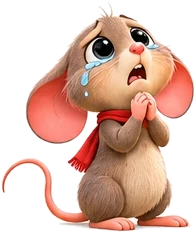
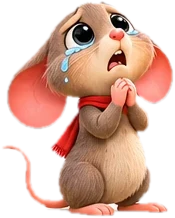
Tiger story: blend characters into scenes, remove on-screen text
Cleaner cut-outs without white fringes or grey floor patches, soft ground
shadows, night colour tone for the trap scenes, and a small tap/next button
instead of the caption box (narration still reads each scene aloud).

Claude-Session: https://claude.ai/code/session_01QxZEKQa9Tg76vW2p6EfgqB

diff --git a/index.html b/index.html
@@ -101,7 +101,17 @@
   @keyframes pulse { 50% { transform: translate(-50%,-50%) scale(1.15); } }
   @keyframes zzz { 0% { opacity: 0; transform: translate(-50%,-30%); } 40% { opacity: 1; } 100% { opacity: 0; transform: translate(-10%,-150%); } }
   @keyframes shake { 25% { transform: translate(-54%,-50%); } 75% { transform: translate(-46%,-50%); } }
-  .actor.pic img { width: 100%; display: block; pointer-events: none; -webkit-user-drag: none; }
+  .actor.pic { filter: none; }
+  .actor.pic img { width: 100%; display: block; pointer-events: none; -webkit-user-drag: none; position: relative;
+    filter: saturate(1.08) contrast(1.04); transition: filter .6s; }
+  .actor.pic::before { content: ''; position: absolute; left: 8%; right: 8%; bottom: -4%; height: 14%;
+    background: radial-gradient(ellipse at center, rgba(30,20,0,.45), rgba(30,20,0,0) 70%); }
+  #stage[data-tone=night] .actor.pic img { filter: brightness(.8) saturate(.85) sepia(.18) hue-rotate(-12deg) contrast(1.05)
+    drop-shadow(0 0 10px rgba(255,140,90,.35)); }
+  #stage[data-tone=night] .actor.pic::before { background: radial-gradient(ellipse at center, rgba(20,0,40,.55), rgba(20,0,40,0) 70%); }
+  /* picture stories without text: caption becomes a small next/tap button */
+  #caption.mini { left: auto; right: 16px; transform: none; width: auto; min-height: 0; padding: 10px 16px;
+    font-size: 28px; border-radius: 999px; }
   .actor.flip img { transform: scaleX(-1); }
   .pop { position: absolute; transform: translate(-50%,-50%); font-weight: 800; color: #fff;
     text-shadow: 0 2px 0 #b3202f, 0 0 8px rgba(0,0,0,.4); pointer-events: none; animation: popup 1.2s ease-out forwards; z-index: 4; }
@@ -243,47 +253,47 @@ const BUILTIN = [
               'mouse_run', 'mouse_scared', 'mouse_gnaw', 'mouse_happy', 'mouse_stand'].map((n) => 'img/tiger/' + n + '.webp'),
     scenes: [
       { sky: 'url(img/tiger/bg_jungle.webp) center/cover',
-        actors: [{ id: 'tiger', img: 'tiger_sleep', x: 58, y: 56, s: 66 },
+        actors: [{ id: 'tiger', img: 'tiger_sleep', x: 58, y: 64, s: 66 },
                  { id: 'z', e: '💤', x: 70, y: 52, s: 10, cls: 'zzz' },
-                 { id: 'mouse', img: 'mouse_run', x: 14, y: 70, s: 26, cls: 'tapme' }],
+                 { id: 'mouse', img: 'mouse_run', x: 14, y: 78, s: 26, cls: 'tapme' }],
         text: { en: 'In a big jungle, a tiger was fast asleep. A tiny mouse came running by…', hi: 'एक बड़े जंगल में एक शेर गहरी नींद में सो रहा था। तभी एक छोटा सा चूहा दौड़ता हुआ आया…' },
         tap: { target: 'mouse', times: 1,
                hint: { en: 'Tap the mouse 🐭', hi: 'चूहे पर टैप करो 🐭' },
                onTap(i, api) {
-                 api.move('mouse', 36, 54);
-                 setTimeout(() => { api.hide('z'); api.pose('tiger', 'tiger_angry', 60); api.cls('tiger', 'shake'); api.pop('GRRR!', 62, 40); api.pose('mouse', 'mouse_scared', 18); api.move('mouse', 22, 68); }, 1500);
+                 api.move('mouse', 36, 62);
+                 setTimeout(() => { api.hide('z'); api.pose('tiger', 'tiger_angry', 60); api.cls('tiger', 'shake'); api.pop('GRRR!', 62, 40); api.pose('mouse', 'mouse_scared', 18); api.move('mouse', 22, 76); }, 1500);
                } } },
       { sky: 'url(img/tiger/bg_jungle.webp) center/cover',
-        actors: [{ id: 'tiger', img: 'tiger_angry', x: 62, y: 54, s: 64, cls: 'shake' },
-                 { id: 'mouse', img: 'mouse_scared', x: 22, y: 66, s: 20 }],
+        actors: [{ id: 'tiger', img: 'tiger_angry', x: 62, y: 62, s: 64, cls: 'shake' },
+                 { id: 'mouse', img: 'mouse_scared', x: 22, y: 74, s: 20 }],
         text: { en: 'Grrr! The tiger woke up angry. He caught the little mouse with his big paw!', hi: 'ग्ररर! शेर गुस्से में जाग गया। उसने अपने बड़े पंजे से चूहे को पकड़ लिया!' } },
       { sky: 'url(img/tiger/bg_jungle.webp) center/cover',
-        actors: [{ id: 'tiger', img: 'tiger_angry', x: 62, y: 54, s: 64 },
-                 { id: 'mouse', img: 'mouse_scared', x: 22, y: 66, s: 20, cls: 'tapme' }],
+        actors: [{ id: 'tiger', img: 'tiger_angry', x: 62, y: 62, s: 64 },
+                 { id: 'mouse', img: 'mouse_scared', x: 22, y: 74, s: 20, cls: 'tapme' }],
         text: { en: '"Please let me go!" cried the mouse. "One day I will help you too!"', hi: '"मुझे छोड़ दो!" चूहा रोया। "एक दिन मैं भी तुम्हारी मदद करूँगा!"' },
         tap: { target: 'mouse', times: 3,
                hint: { en: 'Tap the mouse to say please 🙏', hi: 'चूहे पर टैप करके "प्लीज़" कहो 🙏' },
                onTap(i, api) { api.pop(['🙏', 'Please!', '🥺'][i - 1], 24, 60); } } },
       { sky: 'url(img/tiger/bg_jungle.webp) center/cover',
-        actors: [{ id: 'tiger', img: 'tiger_laugh', x: 62, y: 54, s: 54, cls: 'bob' },
+        actors: [{ id: 'tiger', img: 'tiger_laugh', x: 62, y: 62, s: 54, cls: 'bob' },
                  { id: 'ha', e: '😂', x: 80, y: 40, s: 10, cls: 'pulse' },
-                 { id: 'mouse', img: 'mouse_happy', x: 22, y: 66, s: 22 }],
+                 { id: 'mouse', img: 'mouse_happy', x: 22, y: 74, s: 22 }],
         after: [{ id: 'mouse', x: -20 }],
         text: { en: 'The tiger laughed: "Ha ha! How can a tiny mouse ever help a big tiger?" But he let the mouse go.', hi: 'शेर हँसा: "हा हा! एक छोटा सा चूहा बड़े शेर की क्या मदद करेगा?" पर उसने चूहे को जाने दिया।' } },
-      { sky: 'url(img/tiger/bg_night.webp) center/cover',
-        actors: [{ id: 'tiger', img: 'tiger_net', x: 55, y: 56, s: 66, cls: 'tapme' }],
+      { sky: 'url(img/tiger/bg_night.webp) center/cover', tone: 'night',
+        actors: [{ id: 'tiger', img: 'tiger_net', x: 55, y: 64, s: 66, cls: 'tapme' }],
         text: { en: 'A few days later, the tiger was caught in a hunter\'s rope net! He could not get out.', hi: 'कुछ दिन बाद शेर एक शिकारी के रस्सी के जाल में फँस गया! वह बाहर नहीं निकल पाया।' },
         tap: { target: 'tiger', times: 2,
                hint: { en: 'Tap the tiger to roar for help 🐯', hi: 'शेर पर टैप करो, मदद के लिए दहाड़ो 🐯' },
                onTap(i, api) { api.cls('tiger', 'shake'); api.pop(i === 1 ? 'ROAR!' : 'HELP!', 55, 34); } } },
-      { sky: 'url(img/tiger/bg_night.webp) center/cover',
-        actors: [{ id: 'tiger', img: 'tiger_net', x: 62, y: 56, s: 62, cls: 'shake' },
-                 { id: 'mouse', img: 'mouse_run', x: -15, y: 70, s: 24 }],
+      { sky: 'url(img/tiger/bg_night.webp) center/cover', tone: 'night',
+        actors: [{ id: 'tiger', img: 'tiger_net', x: 62, y: 64, s: 62, cls: 'shake' },
+                 { id: 'mouse', img: 'mouse_run', x: -15, y: 78, s: 24 }],
         after: [{ id: 'mouse', x: 24 }],
         text: { en: 'The little mouse heard the roar. "My friend needs help!" He came running fast!', hi: 'छोटे चूहे ने दहाड़ सुनी। "मेरे दोस्त को मदद चाहिए!" वह तेज़ी से दौड़ता हुआ आया!' } },
-      { sky: 'url(img/tiger/bg_night.webp) center/cover',
-        actors: [{ id: 'tiger', img: 'tiger_net', x: 62, y: 56, s: 62 },
-                 { id: 'mouse', img: 'mouse_gnaw', x: 26, y: 70, s: 32, cls: 'tapme' }],
+      { sky: 'url(img/tiger/bg_night.webp) center/cover', tone: 'night',
+        actors: [{ id: 'tiger', img: 'tiger_net', x: 62, y: 64, s: 62 },
+                 { id: 'mouse', img: 'mouse_gnaw', x: 26, y: 78, s: 32, cls: 'tapme' }],
         text: { en: 'Nibble, nibble! The mouse bit the thick ropes with his sharp teeth.', hi: 'कुतर-कुतर! चूहे ने अपने तेज़ दाँतों से मोटी रस्सियाँ काटीं।' },
         tap: { target: 'mouse', times: 5,
                hint: { en: 'Tap the mouse to bite the rope ✂', hi: 'रस्सी काटने के लिए चूहे पर टैप करो ✂' },
@@ -292,8 +302,8 @@ const BUILTIN = [
                  if (i === 5) setTimeout(() => { api.pose('tiger', 'tiger_free', 60); api.pose('mouse', 'mouse_happy', 22); api.cls('mouse', 'bob'); }, 500);
                } } },
       { sky: 'url(img/tiger/bg_happy.webp) center/cover',
-        actors: [{ id: 'tiger', img: 'tiger_free', x: 62, y: 54, s: 60, cls: 'bob' },
-                 { id: 'mouse', img: 'mouse_happy', x: 22, y: 66, s: 22, cls: 'bob' }],
+        actors: [{ id: 'tiger', img: 'tiger_free', x: 62, y: 62, s: 60, cls: 'bob' },
+                 { id: 'mouse', img: 'mouse_happy', x: 22, y: 74, s: 22, cls: 'bob' }],
         text: { en: 'The tiger was free! "Thank you, little friend. I was wrong — even a small friend can be a big help!"', hi: 'शेर आज़ाद हो गया! "धन्यवाद, छोटे दोस्त। मैं गलत था — छोटा दोस्त भी बड़ी मदद कर सकता है!"' } },
       { sky: 'url(img/tiger/end_friends.webp) center/cover',
         actors: [{ id: 'h', e: '💖', x: 50, y: 22, s: 12, cls: 'pulse' }],
@@ -619,7 +629,7 @@ function renderScene() {
   stage.innerHTML = '';
   state.taps = 0; state.busy = false;
   if (s.custom) {
-    stage.style.background = '#111';
+    stage.style.background = '#111'; stage.dataset.tone = '';
     const ph = document.createElement('div'); ph.className = 'photo' + (sc.fit ? ' fit' : '');
     ph.style.backgroundImage = `url(${sc.img})`;
     stage.append(ph);
@@ -627,6 +637,7 @@ function renderScene() {
     speak(sc.text || '');
   } else {
     stage.style.background = '';
+    stage.dataset.tone = sc.tone || '';
     const sky = document.createElement('div'); sky.className = 'sky'; sky.style.background = sc.sky; stage.append(sky);
     if (sc.water) {
       const w = document.createElement('div'); w.className = 'water';
@@ -671,7 +682,11 @@ function renderScene() {
   updateHud();
 }
 function setCaption(text, hint) {
-  const c = $('#caption'); c.textContent = text;
+  const c = $('#caption');
+  const mini = state.story && !state.story.custom;
+  c.classList.toggle('mini', !!mini);
+  if (mini) { c.textContent = /tap|टैप/i.test(hint) && !/next|आगे/.test(hint) ? '👆' : '▶'; c.title = text; return; }
+  c.textContent = text;
   const h = document.createElement('span'); h.className = 'hint'; h.textContent = hint; c.append(h);
   c.classList.toggle('hidden', !text && !hint);
 }
